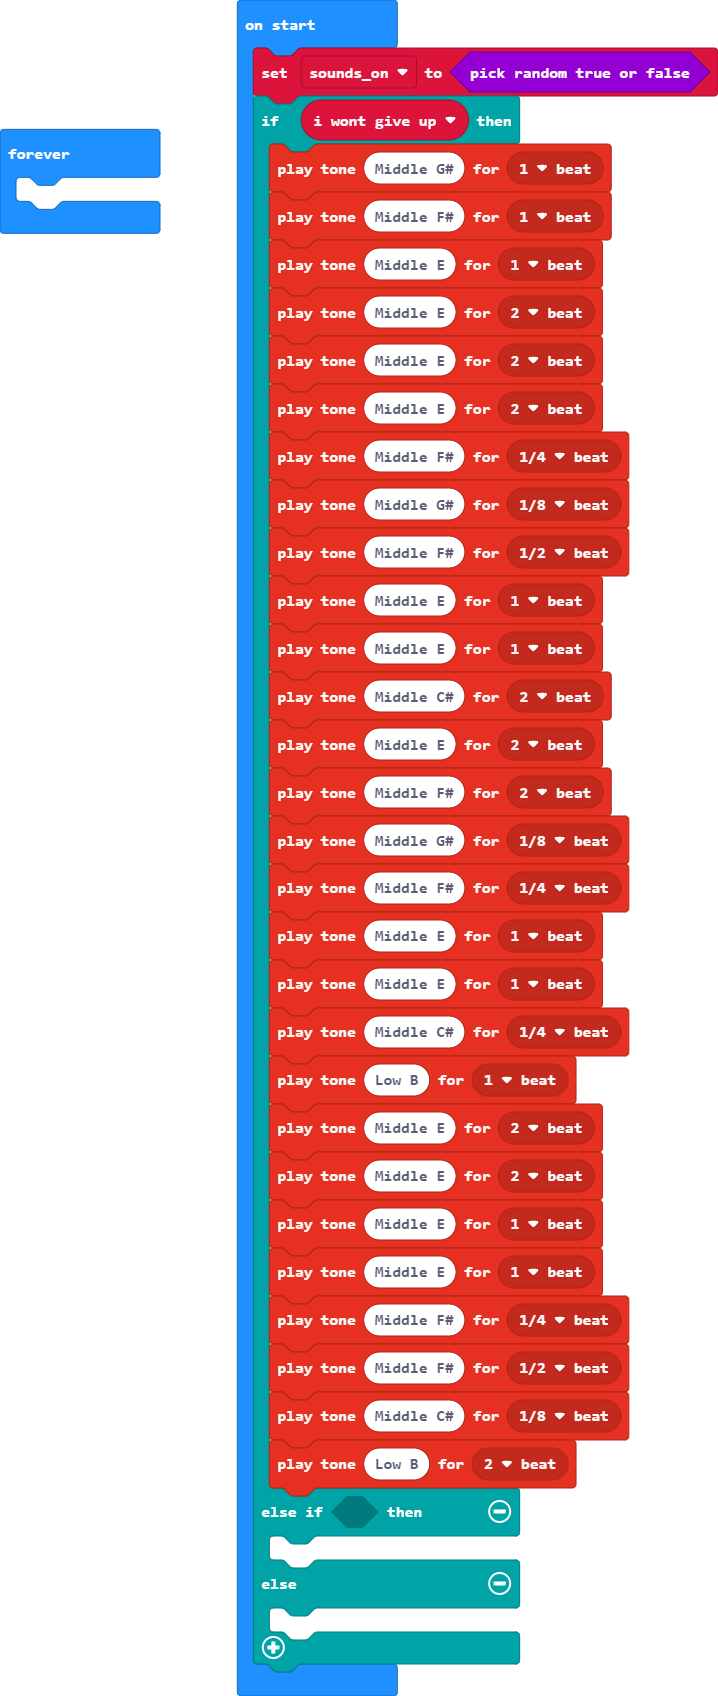
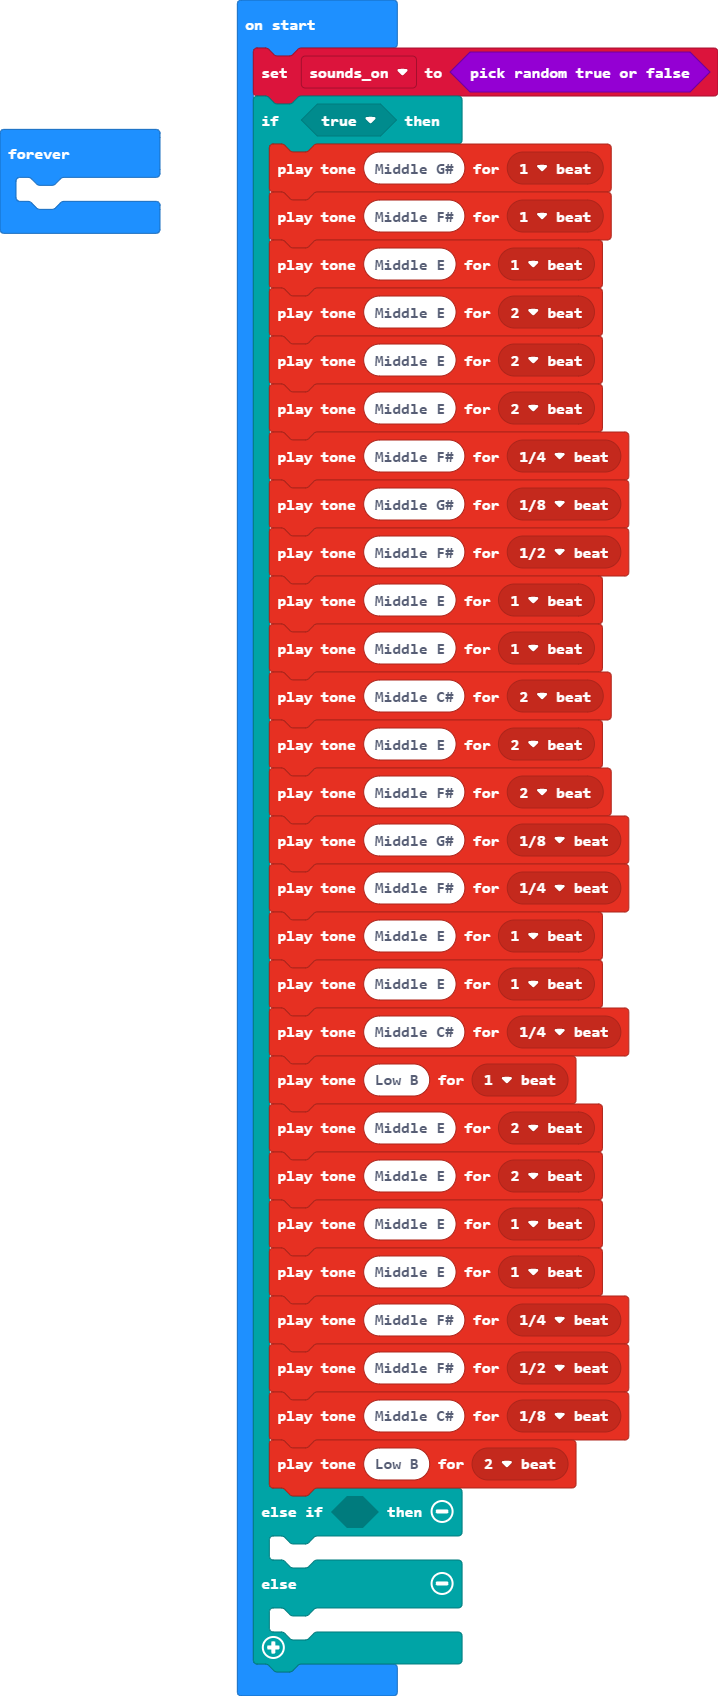
Update main.blocks, main.ts

Changed region(s): [[0.3983, 0.0312, 0.7354, 0.0938], [0.6128, 0.875, 0.7354, 1.0]]

diff --git a/main.ts b/main.ts
@@ -1,6 +1,5 @@
-let i_wont_give_up = 0
 let sounds_on = Math.randomBoolean()
-if (i_wont_give_up) {
+if (true) {
     music.playTone(415, music.beat(BeatFraction.Whole))
     music.playTone(370, music.beat(BeatFraction.Whole))
     music.playTone(330, music.beat(BeatFraction.Whole))
